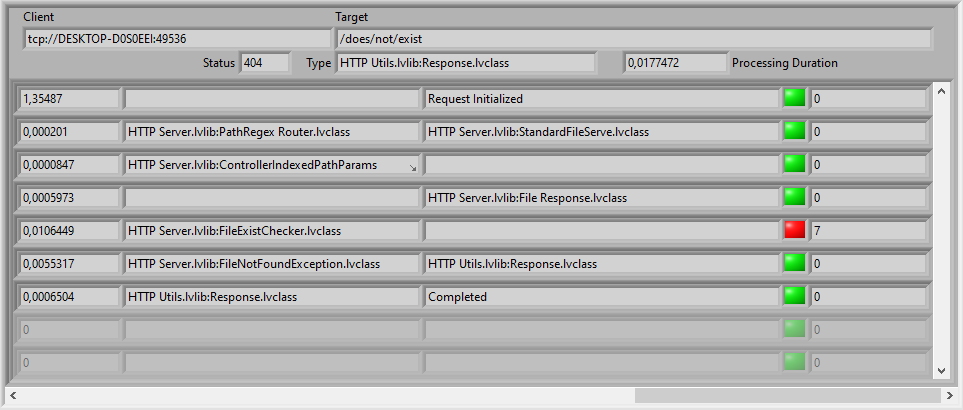
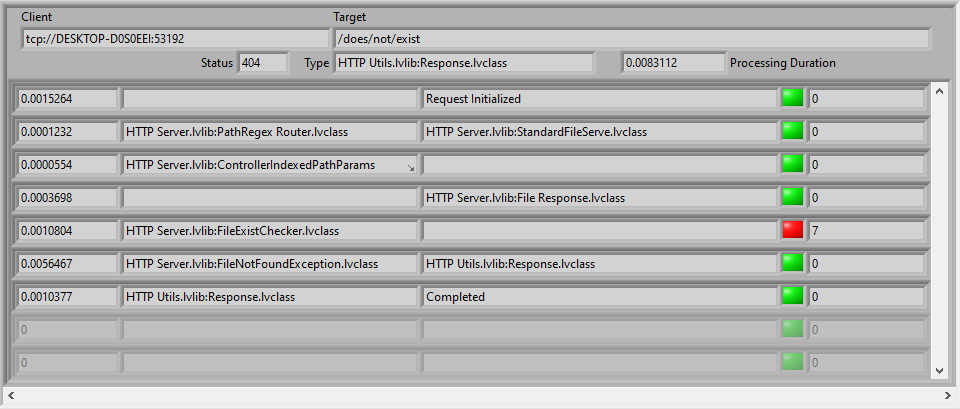
Overview added and tracelog image localization fix after testing some support case stuff

diff --git a/README.md b/README.md
@@ -1,5 +1,6 @@
 HTTP Server implementation in LabVIEW. Utilizes IG TCP Streams and provides mechanisms akin to Web Services.
 
+- [Overview](#overview)
 - [Processing Flow](#processing-flow)
 - [Handlers and Controllers](#handlers-and-controllers)
   - [Priority](#priority)
@@ -14,15 +15,24 @@ HTTP Server implementation in LabVIEW. Utilizes IG TCP Streams and provides mech
     - [Exception Handling](#exception-handling)
 - [Debugging](#debugging)
 
+# Overview
+
+This LV Http Server is intended to both be easy to use for common use-cases but is highly flexible in how it can process requests for those that need extensibility. For common uses such as serving files from a directory or simple URL matching to run LV code, the examples should be referenced. Examples will demonstrate the much smaller scope of details that are required for using those features than the rest of this readme covers.
+
+The following is all that is needed to have a LabVIEW application serve files from a folder relative to the project/executable:
+![Simple File Serving Example](https://raw.githubusercontent.com/illuminated-g/lv-http-server/main/Documentation/images/simplefileserve.png "Simple File Serving Example")
+
+If there is functionality that should be counted among the "common" use-cases but isn't available, feel free to submit an issue describing the functionality.
+
+The processing flow is modelled after Symfony PHP's event subscription system and will be more familiar to backend developers that work with modern web frameworks.
+
+<br />
+
 # Processing Flow
 
 This server provides flexibility and extensibility via a handful of specific request processing steps that can have additional functionality plugged in. The following flowchart maps out the processing flow.
 
-<details open>
-    <summary>Expand for Processing Flowchart</summary>
-
 ![Request Processing Flowchart](https://raw.githubusercontent.com/illuminated-g/lv-http-server/main/Documentation/images/Request%20Flow.drawio.png "Request Processing Flowchart")
-</details>
 
 <br/>
 
@@ -50,11 +60,17 @@ To provide a consistent behavior for handlers with the same priority, a second h
 
 Built-in handlers and controllers will typically have higher numeric values for their priority to allow more room for organizing custom handlers into higher priorities (lower numeric values). Some of them will support customizing their priority when needed.
 
+<br/>
+
 ## Steps Types
+
+<br/>
 
 ### Connection Filtering
 
 Connection Handlers support behavior such as client rate limiting and client blacklisting in a way that is more performant than sending a full response. There is a specific HTTP response for rate limiting that should be used if possible so the client knows to slow down. This step should not be considered for use as a security feature since spoofing network identities is fairly easy. Any actions taken here should only be considered for performance considerations.
+
+<br/>
 
 ### Request Initialization
 
@@ -71,15 +87,21 @@ Triggering an Early Response by returning a non-empty Response instance shortcut
 
 Any information that's relevant to a specific controller should be handled in Controller Initialization or the Controller itself and information related to a specific resource should be handled in a Controller.
 
+<br/>
+
 ### Request Routing
 
 Routing Handlers are called to determine which Controller should be used to respond to the resource request. The resource path will typically be used to determine Controller selection and as such all Controllers are expected to provide a Regular Expression identifying the path(s) they generate Responses for and there is a built-in handler that runs to check the path against the regular expressions. Custom Routing Handlers may select Controllers by other criteria such as a specific hard-coded path, query parameters, headers, or anything else that fits the needs of the application.
 
 If a controller is not identified after running through all registered handlers then it will be treated as an error and the processing will perform exception handling since no Controller was specified to generate a Response.
 
+<br/>
+
 ### Controller Initialization
 
 This step runs registered Controller Handlers that can perform additional initialization and creation of Arguments to be used by the selected Controller. The idea is to have as much information available before the Controller is run to separate initialization from execution when feasible. Sharing initialization routines across several Controllers is also supported by this design.
+
+<br/>
 
 ### Controller Execution
 
@@ -87,17 +109,23 @@ The selected Controller is called to generate a Response to the Request. Not gen
 
 Individual Controllers should avoid setting values in a Response that apply to multiple controllers or the entire server. For instance, if the entire server should set a CORS header, that should be handled in Response Handling instead of being set by Controllers.
 
+<br/>
+
 ### Response Handling
 
 Response Handlers can be written to apply to specific Response types by attempting to cast the Reponse instance to the specific type. They can also apply to all Responses indiscriminently which is useful for tasks like setting CORS headers. Lastly, a Response Handler has the option to completely replace the Response generated by a Controller or purposefully returning an error based on the Response. Since this wastes effort performed by a Controller this is generally only useful for sharing error handling across multiple Controllers, such as verifying that a file for a FileResponse exists.
 
 This step is the last chance to modify the Response before it is sent to the client. As soon as all Response Handlers are run and an error isn't generated, the Response will be sent to the client.
 
+<br/>
+
 ### Cleanup
 
 Complete Handlers should be used to share end-of-processing operations across multiple Controller types or whenever an action should be performed after the Response has already been sent to the client. An example would be generating an email or report but allowing the response to be sent before the lengthy operation so the client isn't left waiting and the user/app experience is much snappier. Another use-case is performing additional detailed logging for the request.
 
 After this step, processing will complete and errors returned will be logged to the Trace Log though they will not trigger exception handling since there is no longer a connected client to respond to. Unlike other steps, a handler in this step returning an error does not skip the remaining handlers.
+
+<br/>
 
 ### Exception Handling ###
 
@@ -108,9 +136,13 @@ An example of how this supports extensibility is a higher priority Exception Han
 After the Handlers are run there are several possible results. If a Handler cleared the error then that signifies that the Reponse it returned should be sent to the client. If the error was not cleared then a generic 500 error will be sent to the client and if the server was configured with debugging enabled then the full error message will be sent in the response.
 >***Sending error messages has the potential to inadvertently reveal sensitive system information to the client. Debugging should never be enabled in a publicly accessible system!***
 
+<br/>
+
 # Debugging
 
 The HTTP Server has a few debugging and logging features built-in though unlike most other web servers there isn't a default location to save logs to disk. Any built-in logging will be accessible during run-time and can be configured to use logging paths by the containing application.
 
 One of the key features for debugging the request processing flow is the Trace Log:
-![Request Trace Log](https://raw.githubusercontent.com/illuminated-g/lv-http-server/main/Documentation/images/tracelog.png "Request Trace Log")
+![Request Trace Log](https://raw.githubusercontent.com/illuminated-g/lv-http-server/main/Documentation/images/tracelog.png "Trace Log Strict Type Def")
+
+This shows information about the client making the request, each of the steps that occurred during processing, and the response details. It will highlight any steps that return errors that would cause exception flows to be triggered. For Handlers that return an item, such as request initialization handlers returning an Early Reponse or Controllers returning the main Response, the type of the returned item is saved. The trace log also stores the execution time of each step or call and the overall processing duration for determining processing performance and which steps may be causing bottle-necks.
